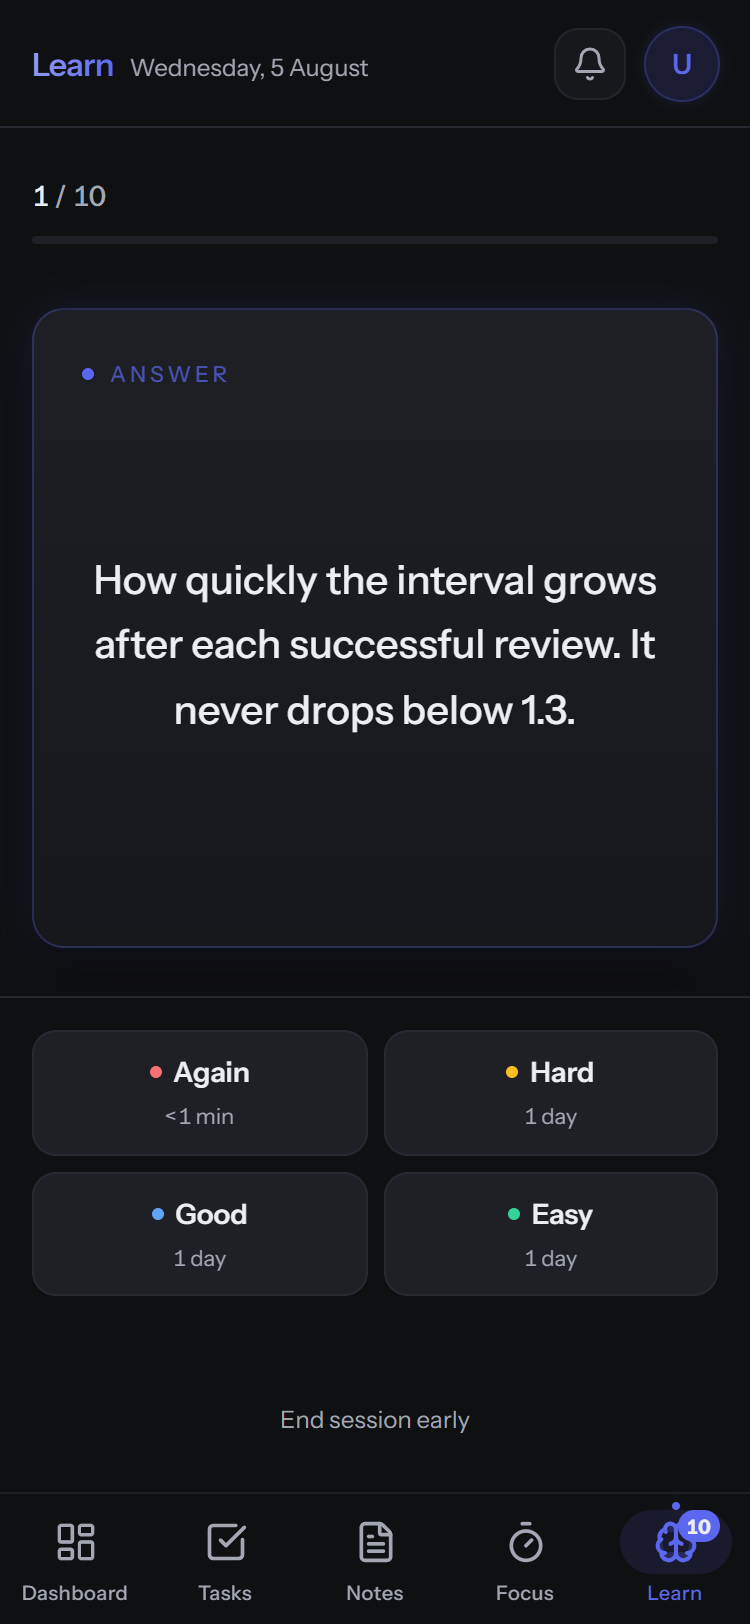
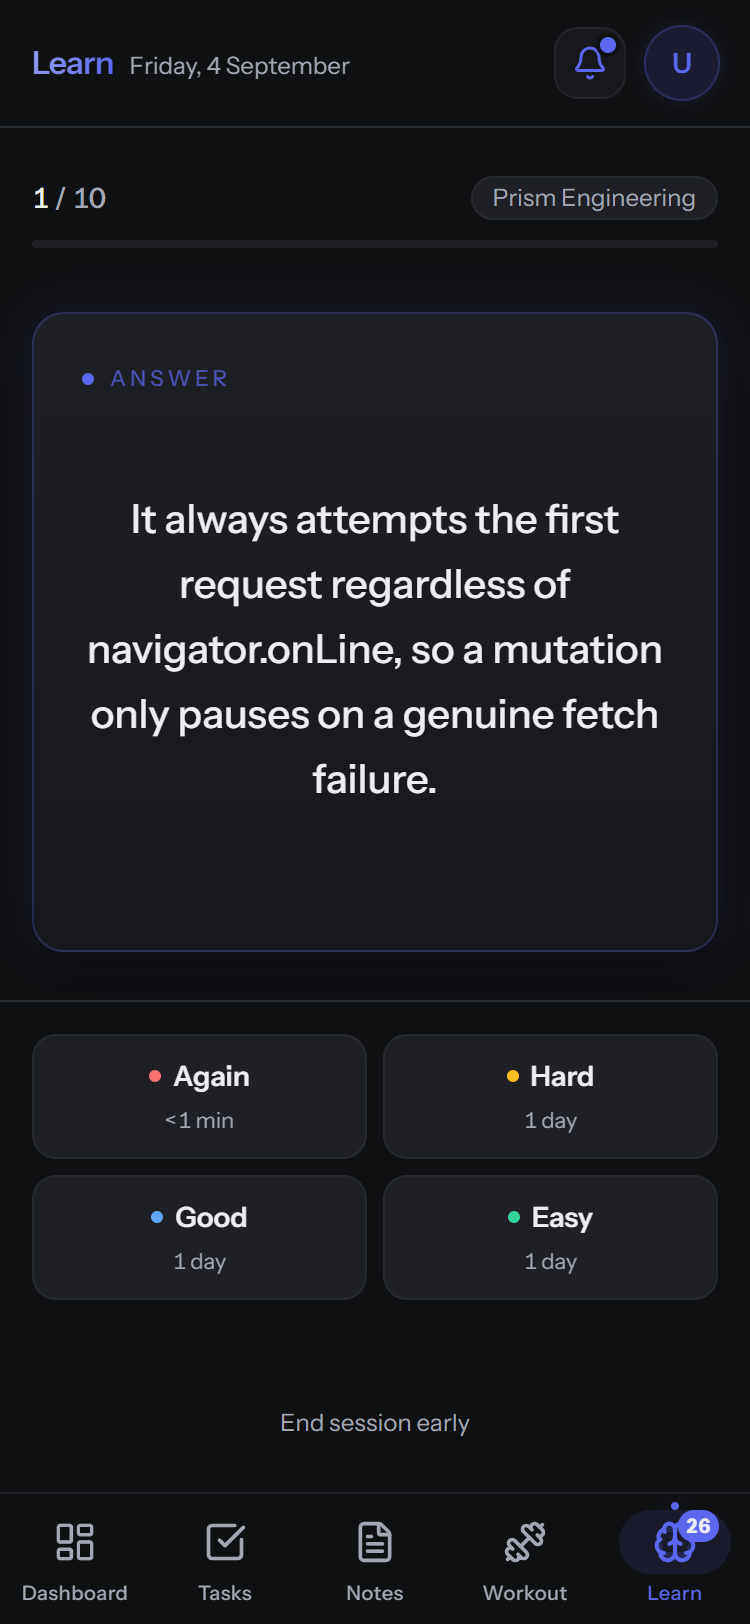
docs(readme): refresh four stale screenshots, add the four missing screens
The four existing screenshots were captured on 5 August and predate the
dashboard rebuild (#44) — dashboard.png still showed the daily check-in,
the DUE TODAY / DONE / REVIEW / REMINDERS counters and the Day Rail, none
of which exist any more. On a public repo a stale screenshot claims a
layout the app no longer has.

Re-shot all four against the deployed production build and added the four
screens that were never captured: notes, calendar, analytics and AI
flashcard generation. The README now shows 8 screens instead of 4.

All eight follow the existing convention: 375x812 CSS at deviceScaleFactor
2 (750x1624), driven through Chrome's Emulation.setDeviceMetricsOverride
with mobile:true rather than an OS window resize, which cannot reach a true
375px mobile layout. workout-logging.png is now full-height like the rest
instead of the previous 750x1070 crop.

The screens were populated with seeded rows, not real personal data. All
115 seeded rows were removed afterwards and every touched table verified
back at its pre-seed count.

diff --git a/README.md b/README.md
@@ -14,6 +14,10 @@ Captured on a 375×812 mobile viewport at 2×, against a production build.
 | **Dashboard** — a capture field, four drift counters (overdue, review, trained, open), then the week's agenda, training and revisit notes as contained sections. | **Tasks** — status filter tabs above task rows carrying priority, status, and due date. |
 | <img src="docs/screenshots/workout-logging.png" alt="Workout logging" width="330"> | <img src="docs/screenshots/srs-review.png" alt="Flashcard review" width="330"> |
 | **Workout** — gym shorthand parsed into individual sets; identical consecutive sets collapse into one row with a set count. | **Review** — the answer side of a due card with the four SM-2 grades and the interval each one would schedule. |
+| <img src="docs/screenshots/notes.png" alt="Notes" width="330"> | <img src="docs/screenshots/calendar.png" alt="Calendar" width="330"> |
+| **Notes** — each card carries its kind (Spark or Revisit), a markdown excerpt and its tags, above full-text search. | **Calendar** — a bespoke IST-safe month grid; dots mark the days holding tasks or reminders, with the selected day expanded below. |
+| <img src="docs/screenshots/analytics.png" alt="Productivity analytics" width="330"> | <img src="docs/screenshots/ai-generation.png" alt="AI flashcard generation" width="330"> |
+| **Analytics** — this week measured against last, then focus minutes across the last 30 days and the split by category. | **AI generation** — flashcards drafted from a note, each one removable; nothing is written until the deck is confirmed. |
 
 ## What it does
 
